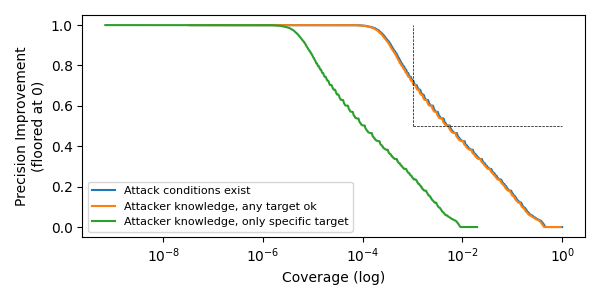
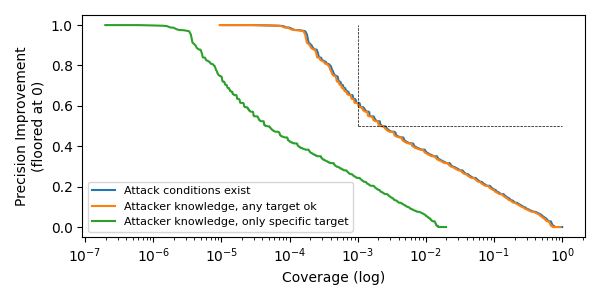
sdf

diff --git a/suppress_threshold_attack.py b/suppress_threshold_attack.py
@@ -271,15 +271,16 @@ def plot_move_avg(df):
     df_sorted['cdf_to_capt'] = df_sorted['cdf'] * df_sorted['moving_avg_capt']
 
     # Plot the pi_fl moving average against the CDF
-    plt.figure(figsize=(10, 6))
+    plt.figure(figsize=(6, 3))
     plt.plot(df_sorted['cdf'], df_sorted['moving_avg_pi_fl'], label="Attack conditions\nhappen to exist")
     plt.plot(df_sorted['cdf_to_capt'], df_sorted['moving_avg_pi_fl'], label="Attacker has specific\nvictim and target")
     plt.hlines(0.5, 0.001, 1, colors='black', linestyles='--')
     plt.vlines(0.001, 0.5, 1.0, colors='black', linestyles='--')
-    plt.legend(loc='lower left')
+    plt.legend(loc="lower left", prop={'size': 8})
     plt.xscale('log')
-    plt.xlabel('Coverage')
-    plt.ylabel(f'Moving Average Precision Improvement\n(floored at 0, window={win})')
+    plt.xlabel('Coverage as Cumulative Probability', fontsize=13, labelpad=10)
+    plt.ylabel(f'Moving Average Precision Improvement\n(floored at 0, window={win})', fontsize=13, labelpad=10)
+    plt.tight_layout()
     plt.savefig(os.path.join(attack_path, 'pi_fl_mv_avg.png'))
     plt.close()
 
@@ -288,7 +289,8 @@ def plot_move_avg(df):
     plt.plot(df_sorted['cdf'], df_sorted['moving_avg_frac_tar'])
     plt.xscale('log')
     plt.xlabel('Coverage')
-    plt.ylabel(f'Moving Average Precision Improvement\n(floored at 0, window={win})')
+    plt.ylabel(f'Moving Average Fraction Target Rows\n(floored at 0, window={win})')
+    plt.tight_layout()
     plt.savefig(os.path.join(attack_path, 'frac_tar_mv_avg.png'))
     plt.close()
 
@@ -340,54 +342,54 @@ def do_plots():
     plt.savefig(os.path.join(attack_path, 'lines3.png'))
     plt.close()
 
-    df_temp = X_test_all.copy()
     plot_move_avg(X_test_all.copy())
-
-    # Make a scatterplot of pi_fl vs coverage
-    df_temp['bin'] = pd.cut(df_temp['pi_fl'], bins=num_bins)
-    df_bin = df_temp.groupby('bin', observed=True).size().reset_index(name='count')
-
-    df_bin['pi_fl_mid'] = df_bin['bin'].apply(lambda x: (x.right + x.left) / 2)
-    for column in df_temp.columns:
-        # If the dtype is numeric, compute the mean for each bin
-        if pd.api.types.is_numeric_dtype(df_temp[column]):
-            df_bin[f'{column}_avg'] = df_temp.groupby('bin', observed=True)[column].mean().values
-
-    df_bin['num_pos_pred'] = df_temp[df_temp['prob_full_attack'] > 0.5].groupby('bin', observed=True)['prob_full_attack'].count().values
-    # Count the total number of rows per bin
-    df_bin['num_all_poss_pred'] = df_temp.groupby('bin', observed=True)['prob_full_attack'].count().values
-    df_bin['model_tp'] = df_temp[df_temp['pred_full_attack'] == 'tp'].groupby('bin', observed=True)['pred_full_attack'].count().reindex(df_bin.index).fillna(0).values
-    df_bin['model_fp'] = df_temp[df_temp['pred_full_attack'] == 'fp'].groupby('bin', observed=True)['pred_full_attack'].count().reindex(df_bin.index).fillna(0).values
-    df_bin['naive_tp'] = df_temp[df_temp['pred_narrow_attack'] == 'tp'].groupby('bin', observed=True)['pred_narrow_attack'].count().reindex(df_bin.index).fillna(0).values
-    df_bin['naive_fp'] = df_temp[df_temp['pred_narrow_attack'] == 'fp'].groupby('bin', observed=True)['pred_narrow_attack'].count().reindex(df_bin.index).fillna(0).values
-    df_bin['frac_perfect'] = df_bin['num_pos_pred'] / df_bin['count']
-
-    df_bin = df_bin.sort_values(by='pi_fl_mid', ascending=False).reset_index(drop=True)
-    df_bin['frac_capt'] = df_bin['frac_perfect'] * df_bin['capt_avg']
-    df_bin['frac_cap'] = df_bin['frac_perfect'] * df_bin['cap_avg']
-    df_bin['model_prec'] = df_bin['model_tp'] / (df_bin['model_tp'] + df_bin['model_fp'])
-    df_bin['naive_prec'] = df_bin['naive_tp'] / (df_bin['naive_tp'] + df_bin['naive_fp'])
-    #print(df_bin.to_string())
-    bin_dict = {}
-    for index, row in df_bin.iterrows():
-        key = str(row['bin'])
-        bin_dict[key] = row.drop('bin').to_dict()
-        bin_dict[key]['table_counts'] = df_temp[df_temp['bin'] == row['bin']]['table'].value_counts().to_dict()
-    with open(os.path.join(attack_path, 'bins.json'), 'w') as f:
-        json.dump(bin_dict, f, indent=4) 
-
-    # Save df_bin.to_string() to file bin.txt
-    with open(os.path.join(attack_path, 'bins.txt'), 'w') as f:
-        f.write(df_bin.to_string())
-
-    # Create a basic scatterplot from the bins
-    for color_by, label, filename in [
-        #('bs_avg', 'Fraction best match syn table', 'pi_cov_bins_frac_bs'),
-        ('frac_tar_avg', 'Fraction of rows with target value', 'pi_cov_bins_frac_tar'),
-        #('prob_baseline_avg', 'Baseline positive prediction probability', 'pi_cov_bins_baseline'),
-        ('prob_full_attack_avg', 'Model positive prediction probability', 'pi_cov_bins_prob_full'),
-        ]:
-        make_bin_scatterplot(df_bin, color_by, label, filename, pi_floor)
+#    df_temp = X_test_all.copy()
+#
+#    # Make a scatterplot of pi_fl vs coverage
+#    df_temp['bin'] = pd.cut(df_temp['pi_fl'], bins=num_bins)
+#    df_bin = df_temp.groupby('bin', observed=True).size().reset_index(name='count')
+#
+#    df_bin['pi_fl_mid'] = df_bin['bin'].apply(lambda x: (x.right + x.left) / 2)
+#    for column in df_temp.columns:
+#        # If the dtype is numeric, compute the mean for each bin
+#        if pd.api.types.is_numeric_dtype(df_temp[column]):
+#            df_bin[f'{column}_avg'] = df_temp.groupby('bin', observed=True)[column].mean().values
+#
+#    df_bin['num_pos_pred'] = df_temp[df_temp['prob_full_attack'] > 0.5].groupby('bin', observed=True)['prob_full_attack'].count().values
+#    # Count the total number of rows per bin
+#    df_bin['num_all_poss_pred'] = df_temp.groupby('bin', observed=True)['prob_full_attack'].count().values
+#    df_bin['model_tp'] = df_temp[df_temp['pred_full_attack'] == 'tp'].groupby('bin', observed=True)['pred_full_attack'].count().reindex(df_bin.index).fillna(0).values
+#    df_bin['model_fp'] = df_temp[df_temp['pred_full_attack'] == 'fp'].groupby('bin', observed=True)['pred_full_attack'].count().reindex(df_bin.index).fillna(0).values
+#    df_bin['naive_tp'] = df_temp[df_temp['pred_narrow_attack'] == 'tp'].groupby('bin', observed=True)['pred_narrow_attack'].count().reindex(df_bin.index).fillna(0).values
+#    df_bin['naive_fp'] = df_temp[df_temp['pred_narrow_attack'] == 'fp'].groupby('bin', observed=True)['pred_narrow_attack'].count().reindex(df_bin.index).fillna(0).values
+#    df_bin['frac_perfect'] = df_bin['num_pos_pred'] / df_bin['count']
+#
+#    df_bin = df_bin.sort_values(by='pi_fl_mid', ascending=False).reset_index(drop=True)
+#    df_bin['frac_capt'] = df_bin['frac_perfect'] * df_bin['capt_avg']
+#    df_bin['frac_cap'] = df_bin['frac_perfect'] * df_bin['cap_avg']
+#    df_bin['model_prec'] = df_bin['model_tp'] / (df_bin['model_tp'] + df_bin['model_fp'])
+#    df_bin['naive_prec'] = df_bin['naive_tp'] / (df_bin['naive_tp'] + df_bin['naive_fp'])
+#    #print(df_bin.to_string())
+#    bin_dict = {}
+#    for index, row in df_bin.iterrows():
+#        key = str(row['bin'])
+#        bin_dict[key] = row.drop('bin').to_dict()
+#        bin_dict[key]['table_counts'] = df_temp[df_temp['bin'] == row['bin']]['table'].value_counts().to_dict()
+#    with open(os.path.join(attack_path, 'bins.json'), 'w') as f:
+#        json.dump(bin_dict, f, indent=4) 
+#
+#    # Save df_bin.to_string() to file bin.txt
+#    with open(os.path.join(attack_path, 'bins.txt'), 'w') as f:
+#        f.write(df_bin.to_string())
+#
+#    # Create a basic scatterplot from the bins
+#    for color_by, label, filename in [
+#        #('bs_avg', 'Fraction best match syn table', 'pi_cov_bins_frac_bs'),
+#        ('frac_tar_avg', 'Fraction of rows with target value', 'pi_cov_bins_frac_tar'),
+#        #('prob_baseline_avg', 'Baseline positive prediction probability', 'pi_cov_bins_baseline'),
+#        ('prob_full_attack_avg', 'Model positive prediction probability', 'pi_cov_bins_prob_full'),
+#        ]:
+#        make_bin_scatterplot(df_bin, color_by, label, filename, pi_floor)
 
     # Sort the DataFrame by 'pi_fl' in descending order and reset the index
     X_test_all_sorted = X_test_all.sort_values(by='pi_fl', ascending=False).reset_index(drop=True)
